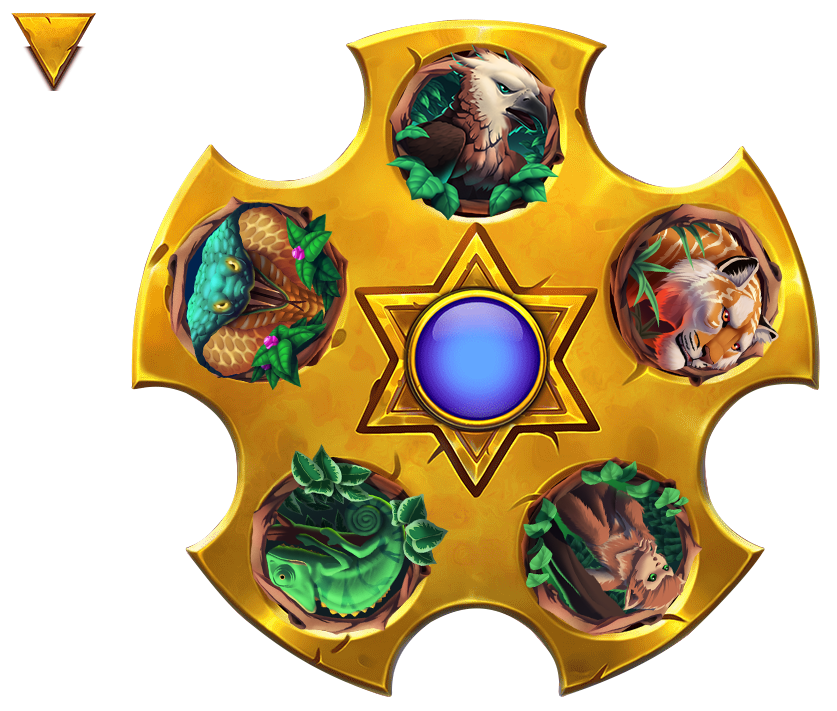
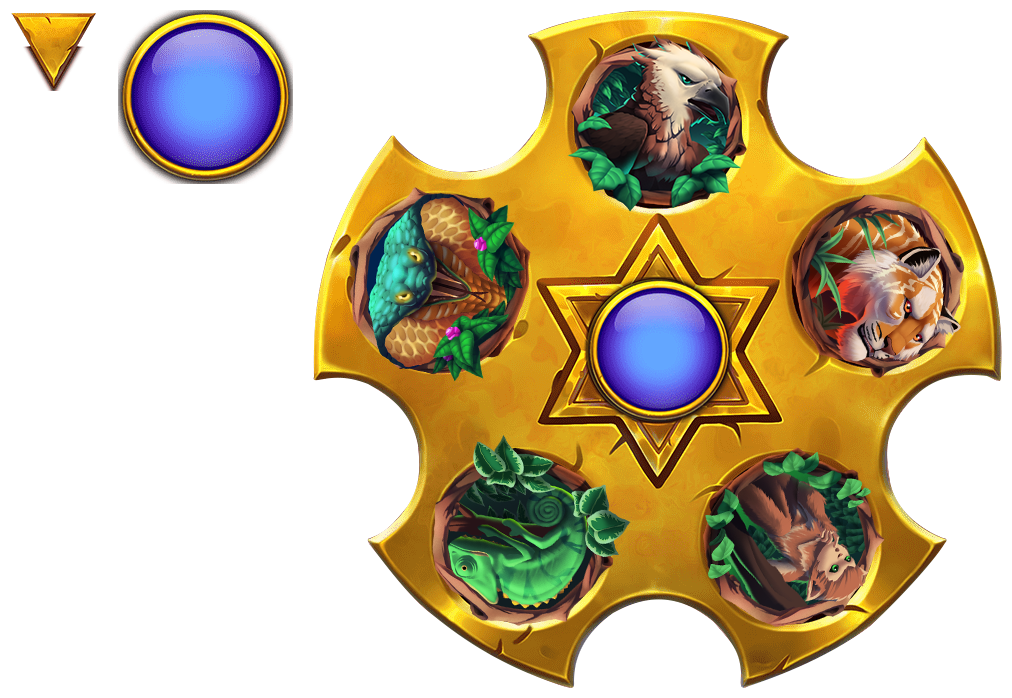
z

diff --git a/src/core/Game.ts b/src/core/Game.ts
@@ -23,6 +23,7 @@ export default class Game{
     private baseHeight:number = 0
     private roulette:PIXI.Sprite
     private roulette_arrow:PIXI.Sprite
+    private roulette_circle:PIXI.Sprite
 
     private slotGame:Slot;
     private controller:Controller;
@@ -319,7 +320,7 @@ export default class Game{
     private buyBonusPopUp(){
         let glowX = 956
         let glowY = 1044
-        let dY = -80
+        let dY = 420
 
         // buy bonus modal 
         // glow animation
@@ -344,14 +345,14 @@ export default class Game{
         close.interactive = true
         close.cursor = 'pointer'
         close.x = (close.width)
-        close.y = (this.buyBonusFrame.height - close.height)*.94
+        close.y = (this.buyBonusFrame.height - close.height)*.84
         this.buyBonusFrame.addChild(close)
         //close buy btn
         const check = Functions.loadTexture(this.textureArray,'bonus','check')
         check.interactive = true
         check.cursor = 'pointer'
         check.x = (this.buyBonusFrame.width - check.width)*.85
-        check.y = (this.buyBonusFrame.height - check.height)*.94
+        check.y = (this.buyBonusFrame.height - check.height)*.84
         this.buyBonusFrame.addChild(check)
         let sY = -this.buyBonusFrame.height
         // close.addListener('mouseover',() =>{
@@ -457,17 +458,25 @@ export default class Game{
         
         this.roulette_arrow =  new PIXI.Sprite(this.textureArray.wheel.textures['roulette_arrow.png'])
         this.roulette =  new PIXI.Sprite(this.textureArray.wheel.textures['wheel.png'])
+        this.roulette_circle =  new PIXI.Sprite(this.textureArray.wheel.textures['roulette_circle.png'])
         this.roulette.x = 960
         this.roulette.y = 500
         this.roulette.scale.set(0.1)
         this.roulette.anchor.set(0.5)
         this.roulette_arrow.x = this.roulette.x - (this.roulette_arrow.width/2)
         this.roulette_arrow.y = 130
+        this.roulette_arrow.alpha = 0
+        this.roulette_circle.alpha = 0
+        this.roulette_circle.scale.set(0.84)
 
-
+        this.roulette_circle.x = this.roulette.x - ( this.roulette_circle.width / 2)
+       
+        this.roulette_circle.y = this.roulette.y - ( this.roulette_circle.width / 2)
 
         this.wheelEventContainer.addChild(this.roulette)
         this.wheelEventContainer.addChild(this.roulette_arrow)
+        this.wheelEventContainer.addChild(this.roulette_circle)
+        console.log(this.wheelEventContainer.width)
         this.gameContainer.addChild(this.wheelEventContainer)
 
         let wheelShow = gsap.to(this.roulette.scale,{
@@ -476,6 +485,8 @@ export default class Game{
             duration: 1, 
             ease: 'power2.out',
             onComplete:()=>{
+                this.roulette_arrow.alpha = 1
+                this.roulette_circle.alpha = 1
                 wheelShow.kill()
             }
         })
@@ -493,9 +504,10 @@ export default class Game{
                    // console.log(tl.progress())
                    // console.log(this.wheelDeg[Math.random()*3])
                 },
-                onComplete:()=>{
-
+                onComplete:()=>{ 
                     let timeOut = setTimeout(()=>{
+                        this.roulette_arrow.alpha = 0
+                        this.roulette_circle.alpha = 0
                         let wheelShow2 = gsap.to(this.roulette.scale,{
                             x: 0.01,
                             y: 0.01, 
@@ -514,7 +526,6 @@ export default class Game{
                       
                         clearTimeout(timeOut)
                     },1500)
-            
                 }
             })
             clearTimeout(timeOut)
